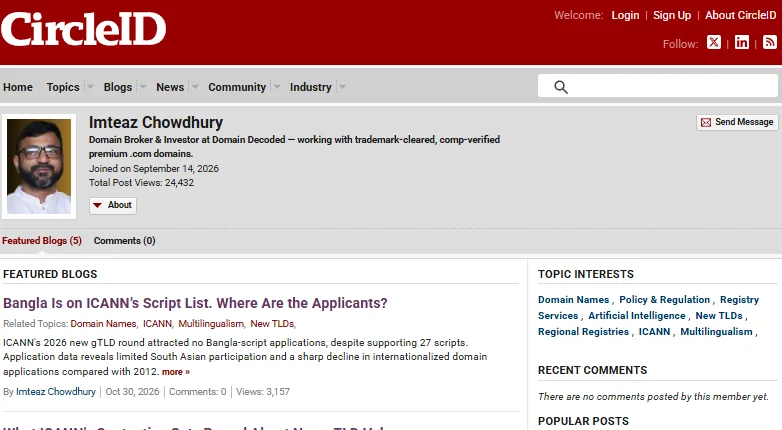
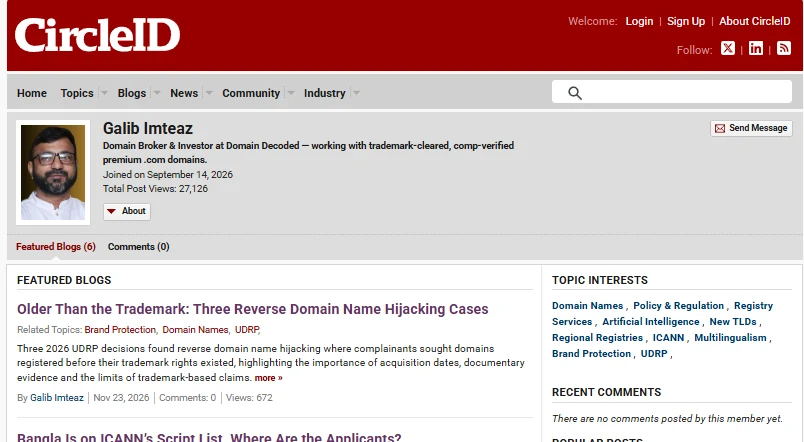
Add files via upload

diff --git a/index-ar.html b/index-ar.html
@@ -356,7 +356,7 @@ html.wd[lang="zh-Hans"] h1,html.wd[lang="zh-Hans"] h2,html.wd[lang="zh-Hans"] h3
 <p class="mp">يمكنك التواصل معي مباشرة عبر البريد الإلكتروني أو واتساب أو LinkedIn، وأرد بنفسي.</p>
 <div class="pubs">
 <a href="https://blog.apnic.net/2026/11/05/the-internet-didnt-break-we-just-forgot-what-it-was-leaning-on/" target="_blank" rel="noopener"><img src="proof-apnic.webp" alt="صفحتي كمؤلف على مدونة APNIC، تعرض مقالي كضيف" width="900" height="442" loading="lazy"><b>كتاباتي على مدونة APNIC</b><span>مقال ضيف عن إبقاء الخدمات المحلية تعمل عند انقطاع الروابط الدولية.</span></a>
-<a href="https://circleid.com/members/9555/" target="_blank" rel="noopener"><img src="proof-circleid.webp" alt="ملفي كمؤلف على CircleID، يعرض مقالاتي المميزة" width="782" height="430" loading="lazy"><b>كتاباتي على CircleID</b><span>مقالات عن أسماء النطاقات وICANN والامتدادات الجديدة للإنترنت.</span></a>
+<a href="https://circleid.com/members/9555/" target="_blank" rel="noopener"><img src="proof-circleid-2.webp" alt="ملفي كمؤلف على CircleID، يعرض مقالاتي المميزة" width="804" height="442" loading="lazy"><b>كتاباتي على CircleID</b><span>مقالات عن أسماء النطاقات وICANN والامتدادات الجديدة للإنترنت.</span></a>
 </div>
 <div class="meet-cta"><a class="btn" href="about-ar.html">المزيد عني</a><a class="btn ghost" href="contact-ar.html">تواصل معي</a></div>
 </div></div></section>

diff --git a/index-es.html b/index-es.html
@@ -356,7 +356,7 @@ html.wd[lang="zh-Hans"] h1,html.wd[lang="zh-Hans"] h2,html.wd[lang="zh-Hans"] h3
 <p class="mp">Puedes contactarme directamente por correo, WhatsApp o LinkedIn, y respondo yo mismo.</p>
 <div class="pubs">
 <a href="https://blog.apnic.net/2026/11/05/the-internet-didnt-break-we-just-forgot-what-it-was-leaning-on/" target="_blank" rel="noopener"><img src="proof-apnic.webp" alt="Mi página de autor en el blog de APNIC, con mi artículo invitado" width="900" height="442" loading="lazy"><b>Mis textos en el blog de APNIC</b><span>Un artículo invitado sobre cómo mantener los servicios locales cuando fallan los enlaces internacionales.</span></a>
-<a href="https://circleid.com/members/9555/" target="_blank" rel="noopener"><img src="proof-circleid.webp" alt="Mi perfil de autor en CircleID, con mis artículos destacados" width="782" height="430" loading="lazy"><b>Mis textos en CircleID</b><span>Artículos sobre nombres de dominio, ICANN y nuevas extensiones de internet.</span></a>
+<a href="https://circleid.com/members/9555/" target="_blank" rel="noopener"><img src="proof-circleid-2.webp" alt="Mi perfil de autor en CircleID, con mis artículos destacados" width="804" height="442" loading="lazy"><b>Mis textos en CircleID</b><span>Artículos sobre nombres de dominio, ICANN y nuevas extensiones de internet.</span></a>
 </div>
 <div class="meet-cta"><a class="btn" href="about-es.html">Más sobre mí</a><a class="btn ghost" href="contact-es.html">Contáctame</a></div>
 </div></div></section>

diff --git a/index-zh.html b/index-zh.html
@@ -356,7 +356,7 @@ html.wd[lang="zh-Hans"] h1,html.wd[lang="zh-Hans"] h2,html.wd[lang="zh-Hans"] h3
 <p class="mp">你可以通过电子邮件、WhatsApp 或 LinkedIn 直接联系我，我会亲自回复。</p>
 <div class="pubs">
 <a href="https://blog.apnic.net/2026/11/05/the-internet-didnt-break-we-just-forgot-what-it-was-leaning-on/" target="_blank" rel="noopener"><img src="proof-apnic.webp" alt="我在 APNIC 博客的作者页面，展示我的客座文章" width="900" height="442" loading="lazy"><b>我在 APNIC 博客的文章</b><span>一篇客座文章，讲国际链路中断时如何保持本地服务运行。</span></a>
-<a href="https://circleid.com/members/9555/" target="_blank" rel="noopener"><img src="proof-circleid.webp" alt="我在 CircleID 的作者主页，展示我的精选文章" width="782" height="430" loading="lazy"><b>我在 CircleID 的文章</b><span>关于域名、ICANN 和新互联网后缀的文章。</span></a>
+<a href="https://circleid.com/members/9555/" target="_blank" rel="noopener"><img src="proof-circleid-2.webp" alt="我在 CircleID 的作者主页，展示我的精选文章" width="804" height="442" loading="lazy"><b>我在 CircleID 的文章</b><span>关于域名、ICANN 和新互联网后缀的文章。</span></a>
 </div>
 <div class="meet-cta"><a class="btn" href="about-zh.html">更多关于我</a><a class="btn ghost" href="contact-zh.html">联系我</a></div>
 </div></div></section>

diff --git a/index.html b/index.html
@@ -375,7 +375,7 @@ footer ul{list-style:none;margin:0;padding:0;display:grid;gap:4px}
 <p class="mp">You can reach me directly by email, WhatsApp or LinkedIn, and I reply myself.</p>
 <div class="pubs">
 <a href="https://blog.apnic.net/2026/11/05/the-internet-didnt-break-we-just-forgot-what-it-was-leaning-on/" target="_blank" rel="noopener"><img src="proof-apnic.webp" alt="My author page on the APNIC Blog, showing my guest article" width="900" height="442" loading="lazy"><b>My writing on the APNIC Blog</b><span>A guest article on keeping local services running when international links fail.</span></a>
-<a href="https://circleid.com/members/9555/" target="_blank" rel="noopener"><img src="proof-circleid.webp" alt="My author profile on CircleID, showing my featured posts" width="782" height="430" loading="lazy"><b>My writing on CircleID</b><span>Posts on domain names, ICANN and new internet extensions.</span></a>
+<a href="https://circleid.com/members/9555/" target="_blank" rel="noopener"><img src="proof-circleid-2.webp" alt="My author profile on CircleID, showing my featured posts" width="804" height="442" loading="lazy"><b>My writing on CircleID</b><span>Posts on domain names, ICANN and new internet extensions.</span></a>
 </div>
 <div class="meet-cta"><a class="btn" href="about.html">More about me</a><a class="btn ghost" href="contact.html">Contact me</a></div>
 </div></div></section>
